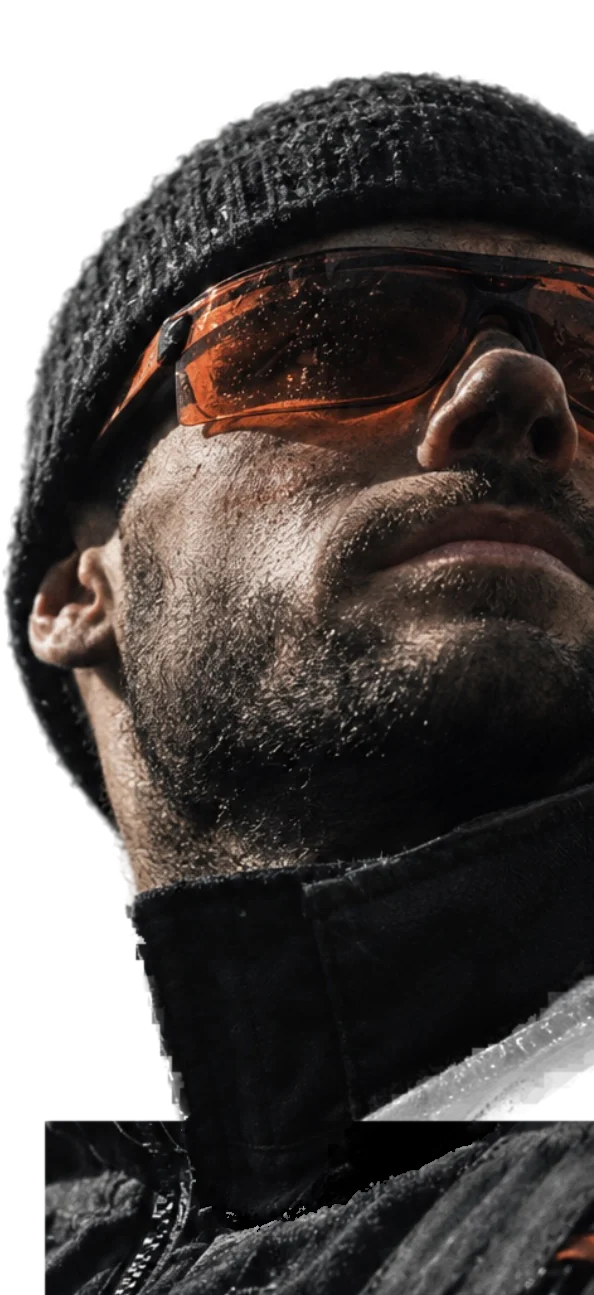
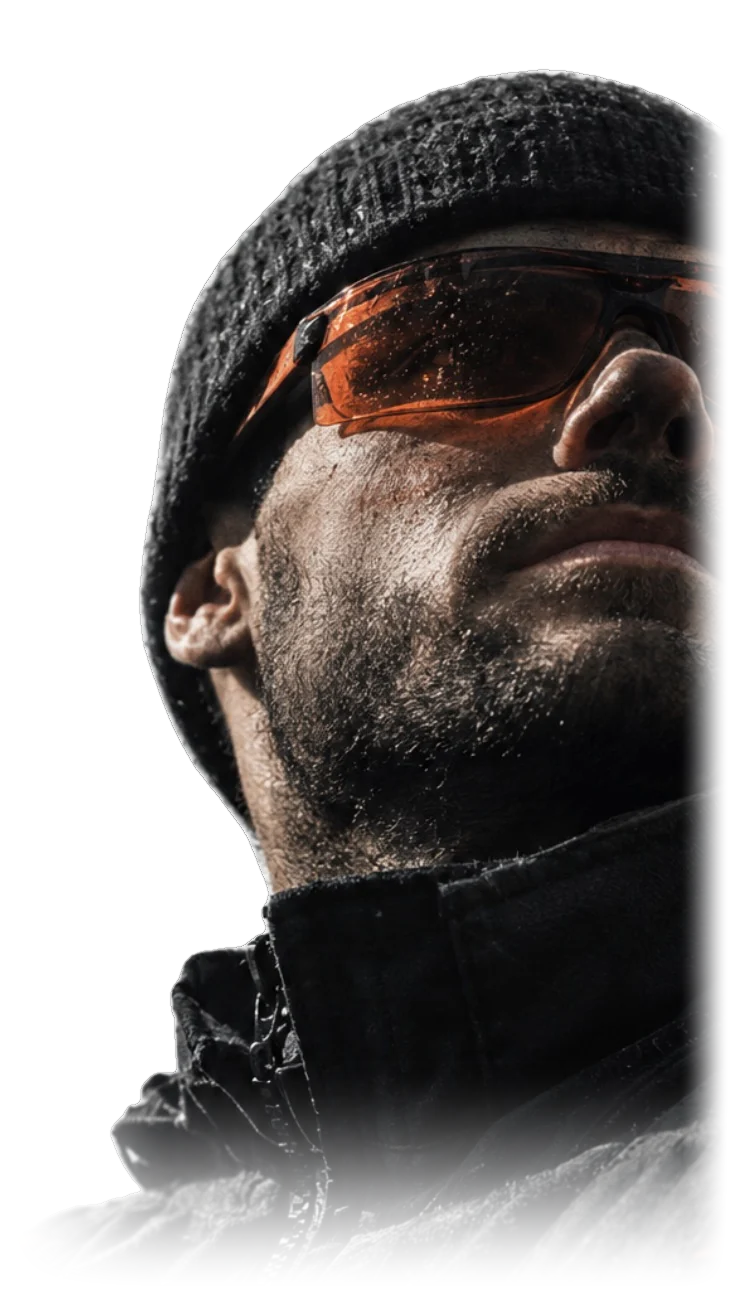
Hero: Freisteller ohne harte Kanten (weiche Ränder im Bild), Person am rechten Rand auf allen Breiten, Kopfzeile bei 1024 px entzerrt
Claude-Session: https://claude.ai/code/session_017SZnV6fZ5eXWoZ2jCJnkR3

diff --git a/werkpilot/frontend/tools/preview/template.html b/werkpilot/frontend/tools/preview/template.html
@@ -29,7 +29,7 @@ h2{font-size:clamp(2.2rem,5.2vw,4rem)}h3{font-size:1.15rem;letter-spacing:-.01em
 .hdr{position:fixed;inset:0 0 auto;z-index:50}.hdr .wrap{position:relative;display:flex;align-items:center;justify-content:space-between;height:64px}
 .hdr-nav{display:none}@media(min-width:1024px){.hdr-nav{display:flex}}
 .hdr-cta{display:flex;align-items:center;gap:8px}.hdr-cta .login{display:none;padding:8px 12px;font-size:.9rem;color:var(--ink2)}.hdr-cta .login:hover{color:var(--ink)}.hdr-cta .btn{display:none;padding:8px 16px}
-@media(min-width:640px){.hdr-cta .btn{display:inline-flex}}@media(min-width:768px){.hdr-cta .login{display:inline-block}}
+@media(min-width:640px){.hdr-cta .btn{display:inline-flex}}@media(min-width:1280px){.hdr-cta .login{display:inline-block}}
 .hdr-panel[hidden]{display:none}.hdr-panel .cols{display:grid;gap:0}.hdr-panel h2{font-family:"Space Mono",monospace;font-size:.7rem;letter-spacing:.1em;text-transform:uppercase;font-weight:400}
 .mono{font-family:"Space Mono",ui-monospace,monospace}.text-xs{font-size:.75rem}.hero .scroll-cue{display:none;color:var(--ink)}@media(min-width:768px){.hero .scroll-cue{display:block}}
 .sec-ps{padding:80px 20px}@media(min-width:768px){.sec-ps{padding:112px 40px}}.sec-ps h2{max-width:56rem;margin-top:20px;font-size:clamp(2.2rem,4vw,3.4rem)}
@@ -43,10 +43,8 @@ h2{font-size:clamp(2.2rem,5.2vw,4rem)}h3{font-size:1.15rem;letter-spacing:-.01em
   linear-gradient(90deg, rgba(5, 5, 5, 0.86) 0%, rgba(5, 5, 5, 0.62) 42%, rgba(5, 5, 5, 0.2) 70%, rgba(5, 5, 5, 0.35) 100%),
   linear-gradient(180deg, rgba(5, 5, 5, 0.55) 0%, rgba(5, 5, 5, 0.05) 30%, rgba(5, 5, 5, 0.15) 70%, rgba(5, 5, 5, 0.75) 100%); }
 .hero-vignette { position: absolute; inset: 0; z-index: 2; background: radial-gradient(120% 90% at 62% 48%, transparent 45%, rgba(5, 5, 5, 0.55) 100%); }
-.hero-person { position: absolute; right: max(0px, calc((100vw - 110rem) / 2)); bottom: 0; z-index: 3; height: 100%; max-height: 100%; width: auto; pointer-events: none; will-change: transform;
-  mask-image: linear-gradient(90deg, transparent 0%, #000 26%, #000 100%), linear-gradient(180deg, #000 78%, transparent 100%);
-  -webkit-mask-image: linear-gradient(90deg, transparent 0%, #000 26%, #000 100%), linear-gradient(180deg, #000 78%, transparent 100%);
-  mask-composite: intersect; -webkit-mask-composite: source-in; }
+.hero-person { position: absolute; right: max(0px, calc((100vw - 120rem) / 2)); bottom: 0; z-index: 3; height: 100%; max-height: 100%; width: auto; pointer-events: none; will-change: transform; }
+/* Die weichen Ränder (links, rechts, unten) sind im Bild selbst angelegt, damit sie in jedem Browser gleich aussehen; kein mask-image nötig */
 .hero-person img { display: block; height: 100%; width: auto; max-width: none; filter: contrast(1.04) saturate(0.9); }
 .hero-content { position: relative; z-index: 4; width: 100%; max-width: 96rem; margin: 0 auto; padding: 0 20px; }
 @media (min-width: 768px) { .hero-content { padding: 0 40px; } }
@@ -77,20 +75,23 @@ h2{font-size:clamp(2.2rem,5.2vw,4rem)}h3{font-size:1.15rem;letter-spacing:-.01em
 /* Mobil: Person kleiner oben rechts, Text darunter, Verlauf von unten für die Lesbarkeit */
 @media (max-width: 767px) {
   .hero { min-height: 100svh; padding: 330px 0 64px; align-items: flex-end; }
-  .hero-person { height: 54%; right: -4%; top: 52px; bottom: auto; mask-image: linear-gradient(90deg, transparent 0%, #000 30%), linear-gradient(180deg, #000 55%, transparent 100%); -webkit-mask-image: linear-gradient(90deg, transparent 0%, #000 30%), linear-gradient(180deg, #000 55%, transparent 100%); }
+  .hero-person { height: 54%; right: 0; top: 52px; bottom: auto; }
   .hero-overlay { background: linear-gradient(180deg, rgba(5, 5, 5, 0.55) 0%, rgba(5, 5, 5, 0.15) 30%, rgba(5, 5, 5, 0.7) 58%, rgba(5, 5, 5, 0.92) 100%); }
   .hero-title { font-size: clamp(2.3rem, 10.6vw, 3.4rem); }
   .hero-ctas { gap: 16px; }
   .hero .scroll-cue { display: none; }
 }
-@media (min-width: 768px) and (max-width: 1100px) { .hero-person { height: 86%; right: -8%; } }
+@media (min-width: 768px) and (max-width: 1100px) { .hero-person { height: 86%; } }
+/* Sehr breite Bildschirme: die Person wächst nicht über 1.400 px, bleibt am rechten Rand; Kopfzeile und Text halten ihre Lesebreite */
+@media (min-width: 1280px) { .hdr-nav { gap: 30px; } }
+@media (min-width: 2200px) { .hero-person { height: min(100%, 1400px); } }
 /* Kopfzeile: transparent über dem Hero (helle Schrift), danach helle Leiste mit dunkler Schrift */
 .hdr { transition: background 0.3s ease, backdrop-filter 0.3s ease, color 0.3s ease; color: var(--ink); }
 .hdr.is-onhero { --ink: #ffffff; --ink2: #d4d4d8; --bg: #050505; --color-ink: #ffffff; --color-ink-2: #d4d4d8; }
 .hdr.is-open { background: #e9e9e6; color: #0a0a0a; }
 .hdr.is-solid { background: color-mix(in srgb, var(--bg) 84%, transparent); backdrop-filter: blur(14px); -webkit-backdrop-filter: blur(14px); }
 .hdr-logo { font-family: "Anton","Arial Narrow",Impact,sans-serif; font-size: 1.35rem; letter-spacing: 0.04em; text-transform: uppercase; color: var(--ink); line-height: 1; }
-.hdr-nav { position: absolute; left: 50%; top: 50%; transform: translate(-50%, -50%); align-items: center; gap: 30px; font-size: 0.92rem; color: var(--ink); }
+.hdr-nav { position: absolute; left: 50%; top: 50%; transform: translate(-50%, -50%); align-items: center; gap: 22px; font-size: 0.92rem; color: var(--ink); }
 .hdr-nav > a, .hdr-dd > button { color: inherit; background: none; border: 0; font: inherit; cursor: pointer; display: inline-flex; align-items: center; gap: 6px; padding: 8px 0; }
 .hdr-nav > a:hover, .hdr-dd > button:hover { color: var(--accent); }
 .hdr-dd { position: relative; }
@@ -157,7 +158,7 @@ html.intro-run .intro { animation: introVeil 0.5s ease 5.2s forwards; }
 .ps-text .ps-note { margin-top: 18px; font-size: 0.75rem; color: var(--muted); }
 .ps-text .k { display: inline-block; margin-top: 16px; font-family: "Space Mono",ui-monospace,monospace; font-size: 0.7rem; letter-spacing: 0.08em; text-transform: uppercase; color: var(--accent2); }
 .ps-text > div { animation: psIn 0.5s cubic-bezier(0.2, 0.7, 0.2, 1); }
-@keyframes psIn { from { transform: translateY(10px); } to { transform: none; } }
+@keyframes psIn { from { transform: translateY(10px); } to { transform: none; } } /* nur Bewegung, keine Deckkraft: Kontrast bleibt jederzeit messbar */
 /* Orange Linie + Eyebrow als Abschnittsauftakt (Referenz „So einfach funktioniert's") */
 .eyebrow-rule { display: flex; align-items: center; gap: 14px; }
 .eyebrow-rule::before { content: ""; width: 36px; height: 2px; background: var(--accent); }
@@ -314,7 +315,7 @@ a.dl:hover{background:color-mix(in srgb,var(--ink) 12%,transparent);transform:tr
     <video class="hero-film" id="video" autoplay muted loop playsinline poster="{{POSTER}}"><source src="{{VIDEO}}" type="video/webm"></video>
     <div class="hero-overlay"></div><div class="hero-vignette"></div>
   </div>
-  <div class="hero-person" aria-hidden="true"><img src="{{PERSON}}" alt="" width="594" height="1295"></div>
+  <div class="hero-person" aria-hidden="true"><img src="{{PERSON}}" alt="" width="730" height="1295"></div>
   <div class="hero-content"><div class="hero-copy" id="heroCopy">
     <p class="hero-eyebrow eyebrow hero-fade"><span class="hero-rule" aria-hidden="true"></span>Mehr Zeit für das Wesentliche</p>
     <h1 class="hero-title" id="headline"><span class="line"><span class="line-in">Draußen</span></span><span class="line"><span class="line-in">arbeiten.</span></span><span class="line"><span class="line-in">Im Büro nichts mehr</span></span><span class="line"><span class="line-in">verpassen.</span></span></h1>

diff --git a/werkpilot/frontend/src/components/landing/landing.css b/werkpilot/frontend/src/components/landing/landing.css
@@ -65,10 +65,8 @@ html:has(.landing) { scroll-behavior: auto; }
   linear-gradient(90deg, rgba(5, 5, 5, 0.86) 0%, rgba(5, 5, 5, 0.62) 42%, rgba(5, 5, 5, 0.2) 70%, rgba(5, 5, 5, 0.35) 100%),
   linear-gradient(180deg, rgba(5, 5, 5, 0.55) 0%, rgba(5, 5, 5, 0.05) 30%, rgba(5, 5, 5, 0.15) 70%, rgba(5, 5, 5, 0.75) 100%); }
 .landing .hero-vignette { position: absolute; inset: 0; z-index: 2; background: radial-gradient(120% 90% at 62% 48%, transparent 45%, rgba(5, 5, 5, 0.55) 100%); }
-.landing .hero-person { position: absolute; right: max(0px, calc((100vw - 110rem) / 2)); bottom: 0; z-index: 3; height: 100%; max-height: 100%; width: auto; pointer-events: none; will-change: transform;
-  mask-image: linear-gradient(90deg, transparent 0%, #000 26%, #000 100%), linear-gradient(180deg, #000 78%, transparent 100%);
-  -webkit-mask-image: linear-gradient(90deg, transparent 0%, #000 26%, #000 100%), linear-gradient(180deg, #000 78%, transparent 100%);
-  mask-composite: intersect; -webkit-mask-composite: source-in; }
+.landing .hero-person { position: absolute; right: max(0px, calc((100vw - 120rem) / 2)); bottom: 0; z-index: 3; height: 100%; max-height: 100%; width: auto; pointer-events: none; will-change: transform; }
+/* Die weichen Ränder (links, rechts, unten) sind im Bild selbst angelegt, damit sie in jedem Browser gleich aussehen; kein mask-image nötig */
 .landing .hero-person img { display: block; height: 100%; width: auto; max-width: none; filter: contrast(1.04) saturate(0.9); }
 .landing .hero-content { position: relative; z-index: 4; width: 100%; max-width: 96rem; margin: 0 auto; padding: 0 20px; }
 @media (min-width: 768px) { .landing .hero-content { padding: 0 40px; } }
@@ -99,20 +97,23 @@ html:has(.landing) { scroll-behavior: auto; }
 /* Mobil: Person kleiner oben rechts, Text darunter, Verlauf von unten für die Lesbarkeit */
 @media (max-width: 767px) {
   .landing .hero { min-height: 100svh; padding: 330px 0 64px; align-items: flex-end; }
-  .landing .hero-person { height: 54%; right: -4%; top: 52px; bottom: auto; mask-image: linear-gradient(90deg, transparent 0%, #000 30%), linear-gradient(180deg, #000 55%, transparent 100%); -webkit-mask-image: linear-gradient(90deg, transparent 0%, #000 30%), linear-gradient(180deg, #000 55%, transparent 100%); }
+  .landing .hero-person { height: 54%; right: 0; top: 52px; bottom: auto; }
   .landing .hero-overlay { background: linear-gradient(180deg, rgba(5, 5, 5, 0.55) 0%, rgba(5, 5, 5, 0.15) 30%, rgba(5, 5, 5, 0.7) 58%, rgba(5, 5, 5, 0.92) 100%); }
   .landing .hero-title { font-size: clamp(2.3rem, 10.6vw, 3.4rem); }
   .landing .hero-ctas { gap: 16px; }
   .landing .hero .scroll-cue { display: none; }
 }
-@media (min-width: 768px) and (max-width: 1100px) { .landing .hero-person { height: 86%; right: -8%; } }
+@media (min-width: 768px) and (max-width: 1100px) { .landing .hero-person { height: 86%; } }
+/* Sehr breite Bildschirme: die Person wächst nicht über 1.400 px, bleibt am rechten Rand; Kopfzeile und Text halten ihre Lesebreite */
+@media (min-width: 1280px) { .landing .hdr-nav { gap: 30px; } }
+@media (min-width: 2200px) { .landing .hero-person { height: min(100%, 1400px); } }
 /* Kopfzeile: transparent über dem Hero (helle Schrift), danach helle Leiste mit dunkler Schrift */
 .landing .hdr { transition: background 0.3s ease, backdrop-filter 0.3s ease, color 0.3s ease; color: var(--c-ink); }
 .landing .hdr.is-onhero { --c-ink: #ffffff; --c-ink2: #d4d4d8; --c-bg: #050505; --color-ink: #ffffff; --color-ink-2: #d4d4d8; }
 .landing .hdr.is-open { background: #e9e9e6; color: #0a0a0a; }
 .landing .hdr.is-solid { background: color-mix(in srgb, var(--c-bg) 84%, transparent); backdrop-filter: blur(14px); -webkit-backdrop-filter: blur(14px); }
 .landing .hdr-logo { font-family: var(--font-display); font-size: 1.35rem; letter-spacing: 0.04em; text-transform: uppercase; color: var(--c-ink); line-height: 1; }
-.landing .hdr-nav { position: absolute; left: 50%; top: 50%; transform: translate(-50%, -50%); align-items: center; gap: 30px; font-size: 0.92rem; color: var(--c-ink); }
+.landing .hdr-nav { position: absolute; left: 50%; top: 50%; transform: translate(-50%, -50%); align-items: center; gap: 22px; font-size: 0.92rem; color: var(--c-ink); }
 .landing .hdr-nav > a, .landing .hdr-dd > button { color: inherit; background: none; border: 0; font: inherit; cursor: pointer; display: inline-flex; align-items: center; gap: 6px; padding: 8px 0; }
 .landing .hdr-nav > a:hover, .landing .hdr-dd > button:hover { color: var(--c-accent); }
 .landing .hdr-dd { position: relative; }

diff --git a/werkpilot/frontend/src/components/landing/LandingHeader.tsx b/werkpilot/frontend/src/components/landing/LandingHeader.tsx
@@ -82,7 +82,7 @@ export function LandingHeader() {
           <Link href="/kontakt">Über uns</Link>
         </nav>
         <div className="flex items-center gap-1 sm:gap-2">
-          <Link href="/anmelden" className="hidden px-3 py-2 text-sm text-ink-2 hover:text-ink md:inline-block">Anmelden</Link>
+          <Link href="/anmelden" className="hidden px-3 py-2 text-sm text-ink-2 hover:text-ink xl:inline-block">Anmelden</Link>
           <Link href="/registrieren" className="btn-primary hidden rounded-full px-4 py-2 text-sm font-semibold sm:inline-block">Kostenlos testen</Link>
           <button type="button" aria-label={open ? "Menü schließen" : "Menü öffnen"} aria-expanded={open} aria-controls="hdr-panel" onClick={() => setOpen((v) => !v)} className="hdr-burger">
             {open ? <svg width="18" height="18" viewBox="0 0 18 18" aria-hidden><path d="M3 3l12 12M15 3L3 15" stroke="currentColor" strokeWidth="1.6" /></svg> : <svg width="20" height="14" viewBox="0 0 20 14" aria-hidden><path d="M0 1h20M0 7h20M0 13h20" stroke="currentColor" strokeWidth="1.6" /></svg>}

diff --git a/werkpilot/frontend/src/components/landing/Hero.tsx b/werkpilot/frontend/src/components/landing/Hero.tsx
@@ -73,8 +73,8 @@ export function Hero() {
       </div>
       {/* Person aus dem Referenzbild, freigestellt; der linke Rand läuft über eine Maske weich in den Film aus */}
       <picture className="hero-person">
-        <source srcSet="/img/hero-person-640.webp 297w, /img/hero-person.webp 594w" sizes="(max-width: 767px) 60vw, 594px" type="image/webp" />
-        <img src="/img/hero-person.png" alt="" width={594} height={1295} fetchPriority="high" decoding="async" />
+        <source srcSet="/img/hero-person-640.webp 365w, /img/hero-person.webp 730w" sizes="(max-width: 767px) 60vw, 730px" type="image/webp" />
+        <img src="/img/hero-person.png" alt="" width={730} height={1295} fetchPriority="high" decoding="async" />
       </picture>
       <div className="hero-content">
         <div className="hero-copy">
